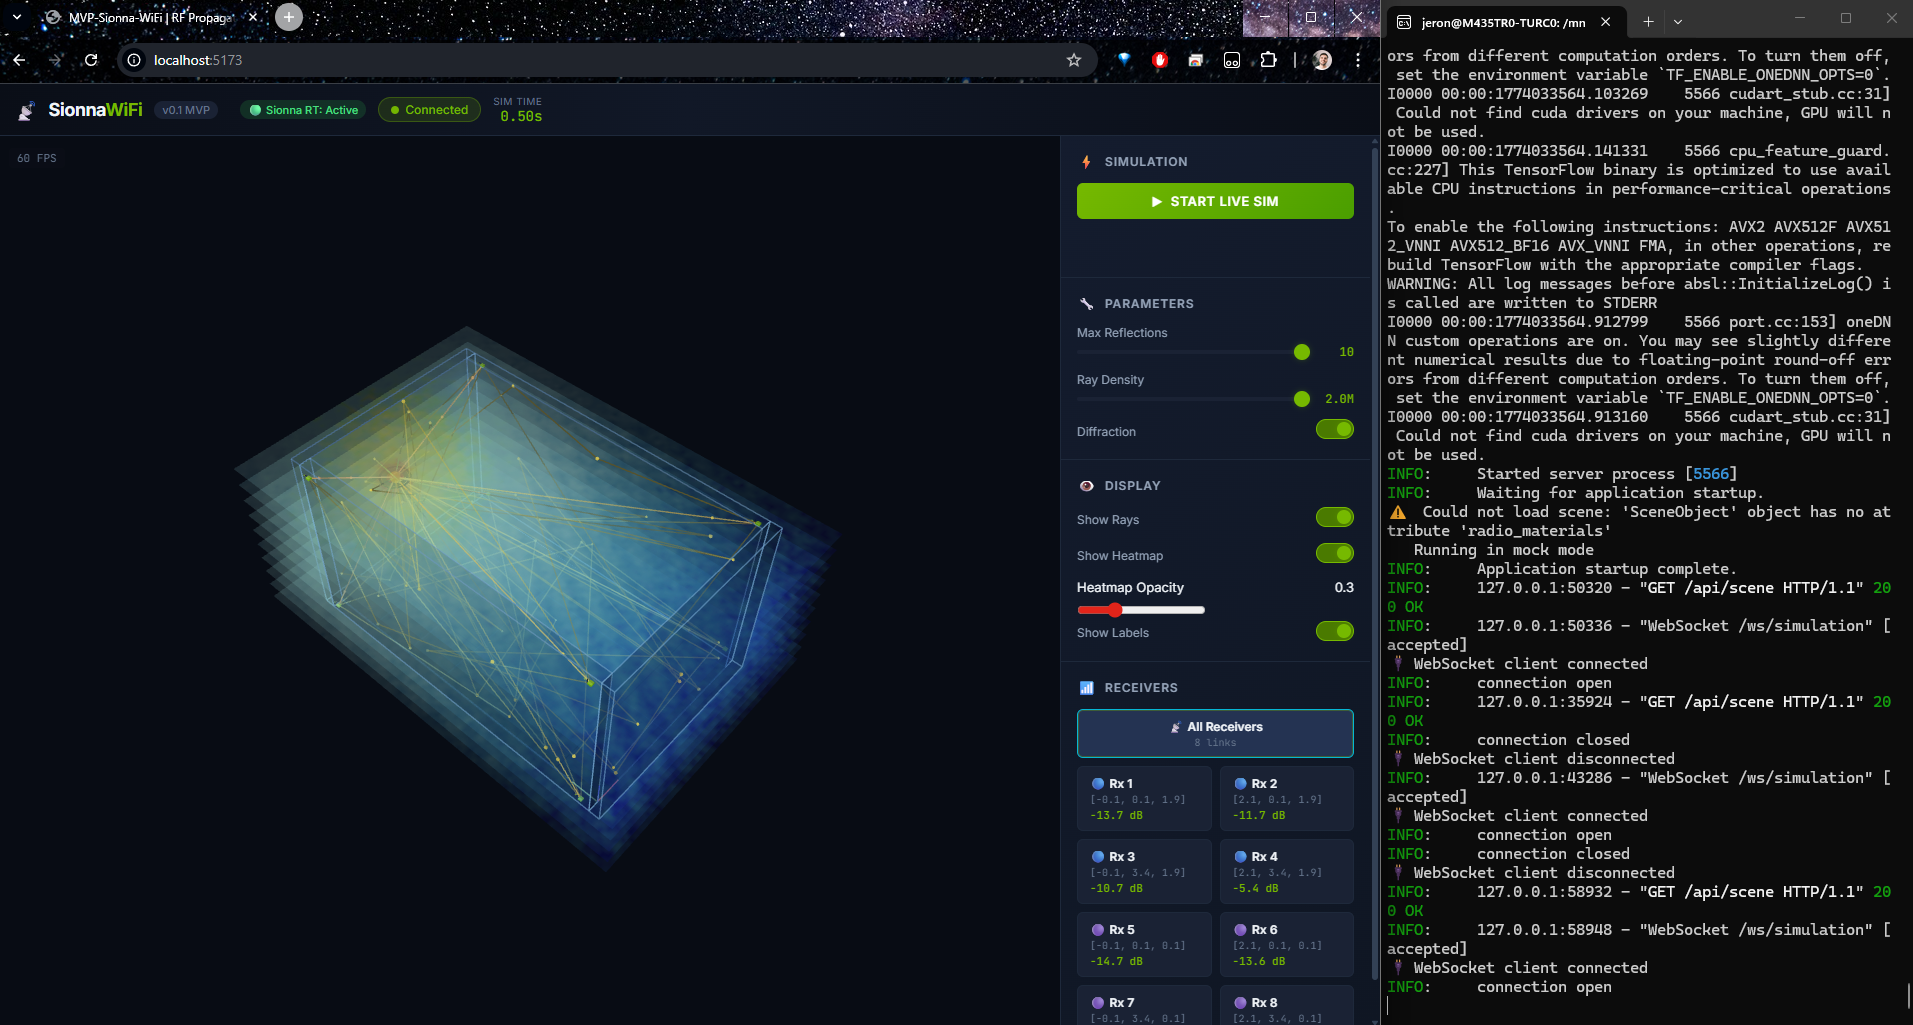
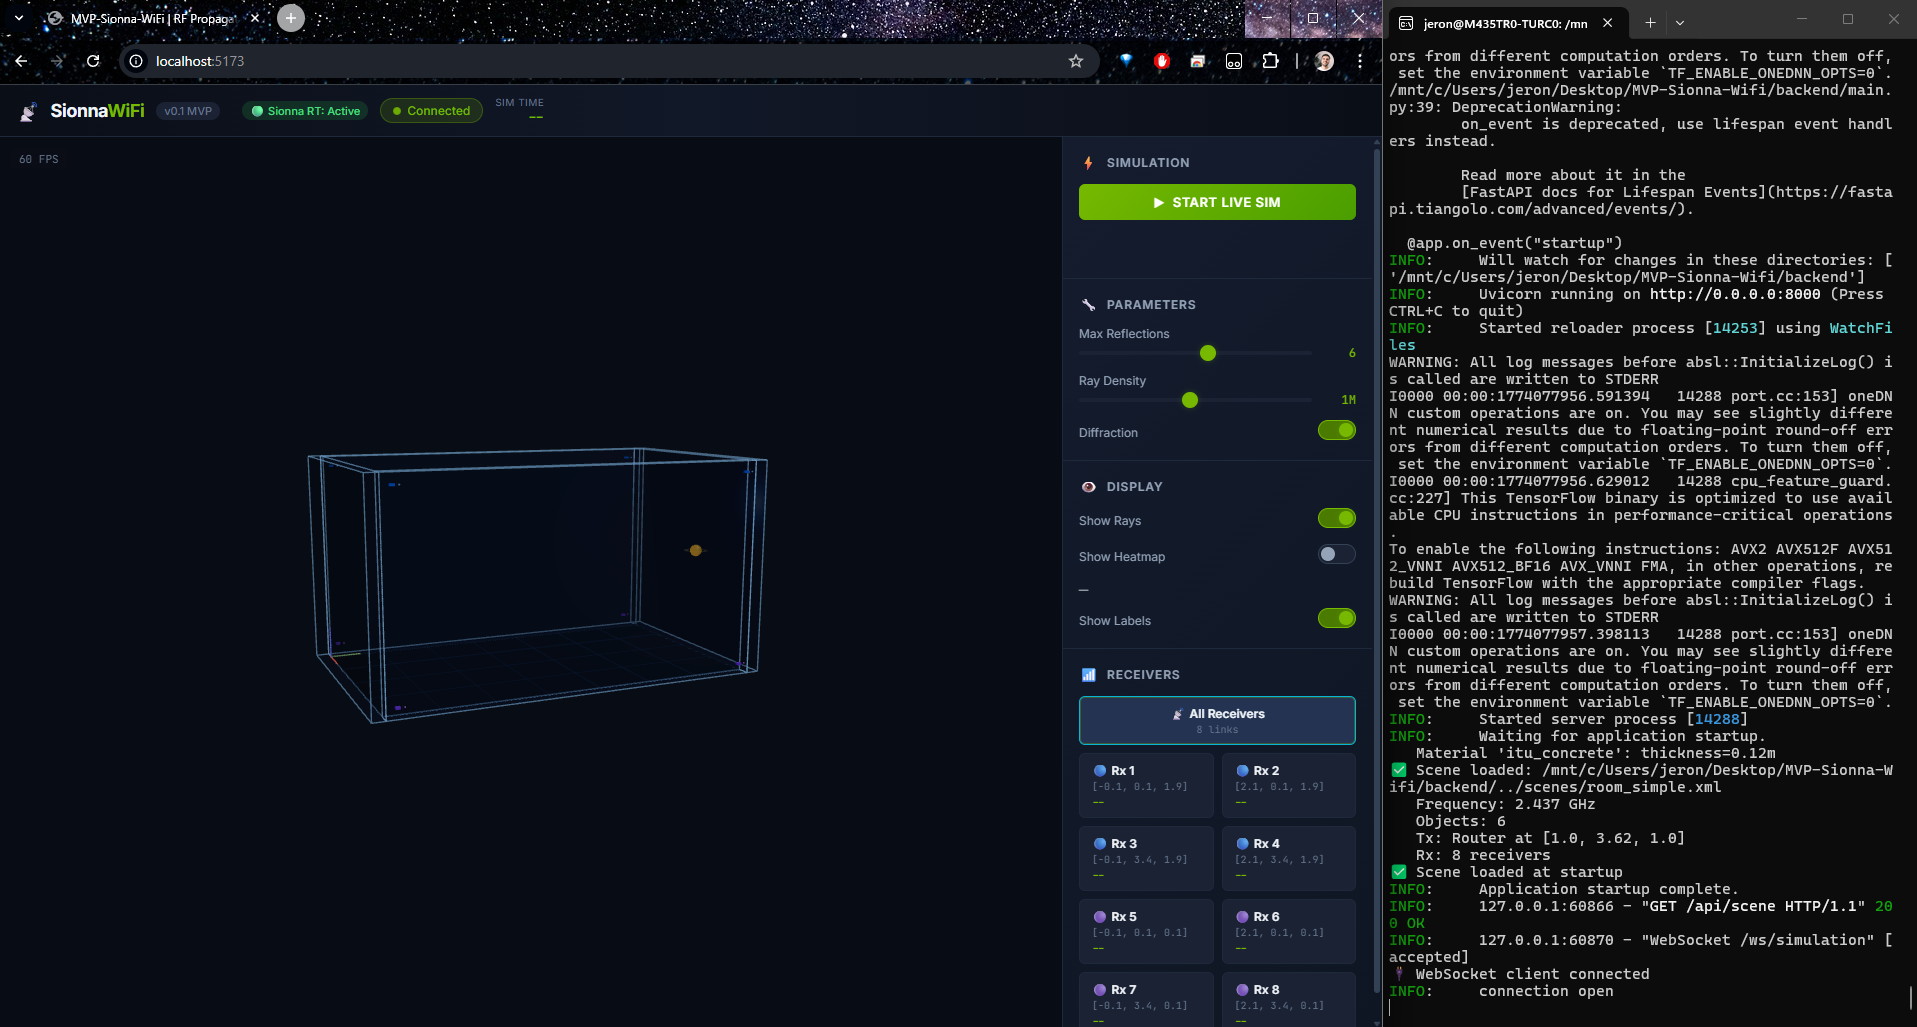
img added + updated README +  console logs addded to show if the project use GPU or CPU

diff --git a/backend/scene_loader.py b/backend/scene_loader.py
@@ -7,13 +7,56 @@ transmitters, receivers, antennas, and material properties.
 import os
 import numpy as np
 
+# =============================================================================
+# Mitsuba Variant Selection (BEFORE importing Sionna)
+# =============================================================================
+# Sionna registers custom Mitsuba plugins (itu-radio-material, etc.) at import
+# time. These registrations are tied to the active variant, so we MUST choose
+# the correct variant BEFORE importing Sionna.
+#
+# Problem in WSL2: mi.set_variant('cuda_ad_rgb') succeeds (CUDA works),
+# but OptiX is NOT available, so rt.load_scene() fails later.
+# Fix: test OptiX with a trivial scene load BEFORE importing Sionna.
+# =============================================================================
+
+MITSUBA_VARIANT = "none"
+HAS_SIONNA = False
+
 try:
+    import mitsuba as mi
+    
+    def _test_optix():
+        """Test if OptiX works by loading a trivial Mitsuba scene."""
+        try:
+            mi.set_variant('cuda_ad_rgb')
+            # This minimal load_string will trigger OptiX init if needed
+            mi.load_string('<scene version="2.0.0"></scene>')
+            return True
+        except Exception as e:
+            error_msg = str(e).lower()
+            if "optix" in error_msg:
+                return False
+            # Non-OptiX error — CUDA might still work for other things,
+            # but scene loading will fail, so fall back
+            return False
+    
+    # Try CUDA+OptiX first
+    if _test_optix():
+        MITSUBA_VARIANT = "cuda_ad_rgb"
+        print("🟢 Mitsuba backend: CUDA + OptiX (GPU)")
+    else:
+        print("⚠  OptiX not available (common in WSL2)")
+        mi.set_variant('llvm_ad_mono_polarized')
+        MITSUBA_VARIANT = "llvm_ad_mono_polarized"
+        print("🟡 Mitsuba backend: LLVM mono-polarized (CPU)")
+    
+    # NOW import Sionna with the correct variant already active
     import sionna
     from sionna import rt
     HAS_SIONNA = True
+
 except ImportError:
-    HAS_SIONNA = False
-    print("⚠  Sionna not installed. Running in mock mode for development.")
+    print("⚠  Sionna/Mitsuba not installed. Running in mock mode.")
 
 from config import (
     WIFI_FREQUENCY, TRANSMITTER, RECEIVERS, ANTENNA_PATTERN,
@@ -42,7 +85,7 @@ def load_scene(scene_path=None):
     if not HAS_SIONNA:
         return _create_mock_scene()
     
-    # Load scene with merge_shapes=False to keep individual wall meshes
+    # Load scene — variant was already validated at import time
     scene = rt.load_scene(scene_path, merge_shapes=False)
     
     # Set operating frequency
@@ -55,7 +98,9 @@ def load_scene(scene_path=None):
     _add_transmitter(scene)
     _add_receivers(scene)
     
+    variant_label = "CUDA+OptiX (GPU)" if "cuda" in MITSUBA_VARIANT else "LLVM (CPU)"
     print(f"✅ Scene loaded: {scene_path}")
+    print(f"   Backend: {variant_label}")
     print(f"   Frequency: {WIFI_FREQUENCY / 1e9:.3f} GHz")
     print(f"   Objects: {len(scene.objects)}")
     print(f"   Tx: {TRANSMITTER['name']} at {TRANSMITTER['position']}")
@@ -106,8 +151,6 @@ def _add_transmitter(scene):
     tx_pos = TRANSMITTER["position"]
     tx_orient = TRANSMITTER.get("orientation", [0, 0, 0])
     
-    # In Sionna 0.19+, antenna arrays are set on the scene level
-    # scene.tx_array and scene.rx_array are shared by all Tx/Rx
     try:
         scene.tx_array = rt.PlanarArray(
             num_rows=1, num_cols=1,
@@ -117,7 +160,6 @@ def _add_transmitter(scene):
     except Exception as e:
         print(f"   ⚠ Could not set tx_array: {e}")
     
-    # Add transmitter to scene
     tx = rt.Transmitter(
         name=TRANSMITTER["name"],
         position=tx_pos,
@@ -128,7 +170,6 @@ def _add_transmitter(scene):
 
 def _add_receivers(scene):
     """Add all 8 ESP32-S3 receivers."""
-    # In Sionna 0.19+, antenna arrays are set on the scene level
     try:
         scene.rx_array = rt.PlanarArray(
             num_rows=1, num_cols=1,
@@ -174,11 +215,10 @@ def get_scene_info(scene):
     Extract scene metadata for the frontend API.
     
     Returns:
-        dict with room geometry, sensor positions, materials
+        dict with room geometry, sensor positions, materials, backend info
     """
     from config import ROOM_WIDTH, ROOM_DEPTH, ROOM_HEIGHT
     
-    # Build receiver list for frontend
     receivers_list = []
     for name, config in RECEIVERS.items():
         receivers_list.append({
@@ -186,6 +226,14 @@ def get_scene_info(scene):
             "position": config["position"],
             "label": config["label"],
         })
+    
+    is_mock = isinstance(scene, dict) and scene.get("type") == "mock"
+    if is_mock:
+        backend = "mock"
+    elif "cuda" in MITSUBA_VARIANT:
+        backend = "cuda_optix"
+    else:
+        backend = "llvm_cpu"
     
     return {
         "room": {
@@ -202,7 +250,9 @@ def get_scene_info(scene):
         "frequency_ghz": WIFI_FREQUENCY / 1e9,
         "bandwidth_mhz": 40,
         "num_subcarriers": 114,
-        "sionna_active": HAS_SIONNA,
+        "sionna_active": HAS_SIONNA and not is_mock,
+        "backend": backend,
+        "mitsuba_variant": MITSUBA_VARIANT,
     }
 
 

diff --git a/backend/main.py b/backend/main.py
@@ -7,19 +7,50 @@ import asyncio
 import json
 import time
 from typing import Optional
+from contextlib import asynccontextmanager
 
 from fastapi import FastAPI, WebSocket, WebSocketDisconnect
 from fastapi.middleware.cors import CORSMiddleware
 from fastapi.staticfiles import StaticFiles
 
 from config import API_HOST, API_PORT
-from scene_loader import load_scene, get_scene_info
+from scene_loader import load_scene, get_scene_info, MITSUBA_VARIANT
 from simulation import run_simulation
+
+# Global scene (loaded once at startup)
+scene = None
+last_simulation_result = None
+
+
+@asynccontextmanager
+async def lifespan(app):
+    """Load the scene at server startup, clean up on shutdown."""
+    global scene
+    try:
+        scene = load_scene()
+        # Check what we actually got
+        if isinstance(scene, dict) and scene.get("type") == "mock":
+            print("⚠  Running in mock mode (Sionna not available)")
+        else:
+            from scene_loader import MITSUBA_VARIANT as variant
+            backend = "CUDA+OptiX (GPU)" if "cuda" in variant else "LLVM (CPU)"
+            print(f"✅ Scene loaded at startup — Backend: {backend}")
+    except Exception as e:
+        print(f"⚠  Could not load scene: {e}")
+        print("   Running in mock mode")
+        scene = {"type": "mock"}
+    
+    yield  # Server runs here
+    
+    # Shutdown
+    print("🔴 Server shutting down")
+
 
 app = FastAPI(
     title="MVP-Sionna-WiFi",
     description="WiFi propagation simulation using Sionna RT",
     version="0.1.0",
+    lifespan=lifespan,
 )
 
 # CORS for frontend dev server
@@ -30,23 +61,6 @@ app.add_middleware(
     allow_methods=["*"],
     allow_headers=["*"],
 )
-
-# Global scene (loaded once at startup)
-scene = None
-last_simulation_result = None
-
-
-@app.on_event("startup")
-async def startup():
-    """Load the scene at server startup."""
-    global scene
-    try:
-        scene = load_scene()
-        print("✅ Scene loaded at startup")
-    except Exception as e:
-        print(f"⚠  Could not load scene: {e}")
-        print("   Running in mock mode")
-        scene = {"type": "mock"}
 
 
 @app.get("/api/scene")

diff --git a/backend/simulation.py b/backend/simulation.py
@@ -53,10 +53,18 @@ def run_simulation(scene, max_depth=6, num_samples=20000,
     if not HAS_SIONNA or (isinstance(scene, dict) and scene.get("type") == "mock"):
         return _mock_simulation(max_depth, num_samples, coverage_height)
     
-    return _run_sionna_simulation(scene, max_depth, num_samples, 
-                                      diffraction, scattering, 
-                                      refraction, specular_reflection,
-                                      coverage_height)
+    try:
+        return _run_sionna_simulation(scene, max_depth, num_samples, 
+                                          diffraction, scattering, 
+                                          refraction, specular_reflection,
+                                          coverage_height)
+    except Exception as e:
+        print(f"\n❌ Sionna simulation failed: {e}")
+        print("   Falling back to mock simulation for this request")
+        result = _mock_simulation(max_depth, num_samples, coverage_height)
+        result["error"] = str(e)
+        result["fallback"] = True
+        return result
 
 
 def _run_sionna_simulation(scene, max_depth, num_samples, diffraction, scattering,

diff --git a/README.md b/README.md
@@ -1,7 +1,8 @@
 # MVP-Sionna-WiFi
-#An end-to-end 3D Digital Twin built for real-time visualization of Wi-Fi (802.11) radio propagation, using NVIDIA Sionna's ray tracing engine and Three.js.
 
-![Volumetric Heatmap & Ray Tracing](docs/images/preview.png)
+#An end-to-end 3D Digital Twin built for real-time visualization of Wi-Fi (802.11) radio propagation, using NVIDIA Sionna's ray tracing engine and Three.js.
+![Sistem preview](docs/images/preview.png)
+![Volumetric Heatmap & Ray Tracing](docs/images/previewActive2.png)
 ![CSI Monitor & Receiver Analytics](docs/images/previewESP32.png)
 
 A virtual test room with **8 ESP32-S3 receivers** and **1 WiFi router** — built as a learning project to explore ray-tracing-based RF simulation before tackling the full [WiFi Vision 3D](https://github.com/JeronimoRepetto/wifi-csi-capture) research pipeline.
@@ -24,17 +25,17 @@ No physical hardware required. No SMPL body model (yet).
 
 ## Room Configuration
 
-| Parameter | Value |
-|-----------|-------|
-| Room dimensions | 2.0 × 3.5 × 2.0 m |
-| Wall thickness | 0.12 m |
-| Wall material | `itu_brick` (ITU-R P.2040) |
-| Floor/Ceiling | `itu_concrete` |
-| WiFi frequency | 2.437 GHz (Channel 6) |
-| Bandwidth | 40 MHz (HT40, 802.11n) |
-| Subcarriers | 114 (108 data) |
-| Transmitter | 1 × Router (behind back wall, Y=3.62m, Z=1.0m) |
-| Receivers | 8 × ESP32-S3 (4 high Z=1.9m + 4 low Z=0.1m) |
+| Parameter       | Value                                          |
+| --------------- | ---------------------------------------------- |
+| Room dimensions | 2.0 × 3.5 × 2.0 m                              |
+| Wall thickness  | 0.12 m                                         |
+| Wall material   | `itu_brick` (ITU-R P.2040)                     |
+| Floor/Ceiling   | `itu_concrete`                                 |
+| WiFi frequency  | 2.437 GHz (Channel 6)                          |
+| Bandwidth       | 40 MHz (HT40, 802.11n)                         |
+| Subcarriers     | 114 (108 data)                                 |
+| Transmitter     | 1 × Router (behind back wall, Y=3.62m, Z=1.0m) |
+| Receivers       | 8 × ESP32-S3 (4 high Z=1.9m + 4 low Z=0.1m)    |
 
 ### Sensor Layout
 
@@ -100,23 +101,23 @@ MVP-Sionna-Wifi/
 
 ### GPU Mode (Recommended)
 
-| Component | Minimum | Recommended |
-|:---|:---|:---|
-| **GPU** | NVIDIA GTX 1060 (6GB VRAM) | NVIDIA RTX 3060+ (8GB+ VRAM) |
-| **CUDA** | 11.8+ | 12.0+ |
-| **RAM** | 8 GB | 16 GB |
-| **CPU** | 4 cores | 8+ cores |
-| **OS** | Ubuntu 20.04 / WSL2 | Ubuntu 22.04 / WSL2 |
+| Component | Minimum                    | Recommended                  |
+| :-------- | :------------------------- | :--------------------------- |
+| **GPU**   | NVIDIA GTX 1060 (6GB VRAM) | NVIDIA RTX 3060+ (8GB+ VRAM) |
+| **CUDA**  | 11.8+                      | 12.0+                        |
+| **RAM**   | 8 GB                       | 16 GB                        |
+| **CPU**   | 4 cores                    | 8+ cores                     |
+| **OS**    | Ubuntu 20.04 / WSL2        | Ubuntu 22.04 / WSL2          |
 
 💡 With GPU acceleration, each simulation frame takes **~0.02–0.05s**.
 
 ### CPU-Only Mode (Fallback)
 
-| Component | Minimum | Recommended |
-|:---|:---|:---|
-| **CPU** | Intel i5 / AMD Ryzen 5 (4 cores) | Intel i7/i9 / AMD Ryzen 7+ (8+ cores) |
-| **RAM** | 16 GB | 32 GB |
-| **OS** | Ubuntu 20.04 / WSL2 | Ubuntu 22.04 / WSL2 |
+| Component | Minimum                          | Recommended                           |
+| :-------- | :------------------------------- | :------------------------------------ |
+| **CPU**   | Intel i5 / AMD Ryzen 5 (4 cores) | Intel i7/i9 / AMD Ryzen 7+ (8+ cores) |
+| **RAM**   | 16 GB                            | 32 GB                                 |
+| **OS**    | Ubuntu 20.04 / WSL2              | Ubuntu 22.04 / WSL2                   |
 
 ⚠ Without GPU, each simulation frame takes **~0.15–0.5s** and uses **100% CPU**. Long sessions may cause thermal throttling.
 
@@ -143,14 +144,19 @@ websockets
 NVIDIA Sionna requires a Linux environment to utilize hardware GPU acceleration via TensorFlow. On Windows, you MUST use WSL2 (Ubuntu).
 
 ### 1. Prepare WSL2 (Ubuntu) Environment
+
 First, ensure you have an Ubuntu distribution installed in WSL2:
+
 ```bash
 wsl --install -d Ubuntu-22.04
 ```
-*Note: After installing, open the "Ubuntu 22.04" app from your Windows Start Menu to set up your UNIX username and password.*
+
+_Note: After installing, open the "Ubuntu 22.04" app from your Windows Start Menu to set up your UNIX username and password._
 
 ### 2. Install Python 3.10 and Sionna in WSL2
+
 Sionna is officially supported on Python 3.10. Open your **Ubuntu terminal** and run:
+
 ```bash
 # Install Miniconda
 wget https://repo.anaconda.com/miniconda/Miniconda3-latest-Linux-x86_64.sh
@@ -172,7 +178,9 @@ sudo apt install -y nvidia-cuda-toolkit
 ```
 
 ### 3. Install Backend Dependencies
-Navigate to your project folder from *inside* the Ubuntu terminal (e.g., `/mnt/c/Users/YourUser/Desktop/MVP-Sionna-Wifi`):
+
+Navigate to your project folder from _inside_ the Ubuntu terminal (e.g., `/mnt/c/Users/YourUser/Desktop/MVP-Sionna-Wifi`):
+
 ```bash
 cd /mnt/c/Users/jeron/Desktop/MVP-Sionna-Wifi/backend
 pip install -r requirements.txt
@@ -182,6 +190,7 @@ pip install sionna tensorflow
 ### 4. Running the Project
 
 **Start Backend (from Ubuntu WSL Terminal)**
+
 ```bash
 conda activate sionna
 cd /mnt/c/Users/jeron/Desktop/MVP-Sionna-Wifi/backend
@@ -189,12 +198,14 @@ python main.py
 ```
 
 In the terminal, check for:
+
 - `✅ Scene loaded` → Sionna loaded the room correctly
 - `Could not find cuda drivers` → Running in CPU mode (slower but functional)
 - `🟢 Sionna RT: Active` in the web UI → Sionna is active
 - `🟢 Sionna RT` badge on heatmap → Data is from real ray tracing, not mock
 
 **Start Frontend (from Windows PowerShell)**
+
 ```bash
 cd frontend
 npm install
@@ -205,13 +216,13 @@ Open `http://localhost:5173` in your browser.
 
 ## Roadmap
 
-| Version | Description |
-|:-------:|-------------|
+| Version  | Description                                 |
+| :------: | ------------------------------------------- |
 | **v0.1** | ← Current: Room + Sionna RT + Visualization |
-| v0.2 | Add SMPL body model as obstacle |
-| v0.3 | Animated human movement + dynamic CSI |
-| v0.4 | Compare simulated vs real CSI (ESP32) |
-| v0.5 | Full pose estimation pipeline integration |
+|   v0.2   | Add SMPL body model as obstacle             |
+|   v0.3   | Animated human movement + dynamic CSI       |
+|   v0.4   | Compare simulated vs real CSI (ESP32)       |
+|   v0.5   | Full pose estimation pipeline integration   |
 
 ## Related Projects
 
